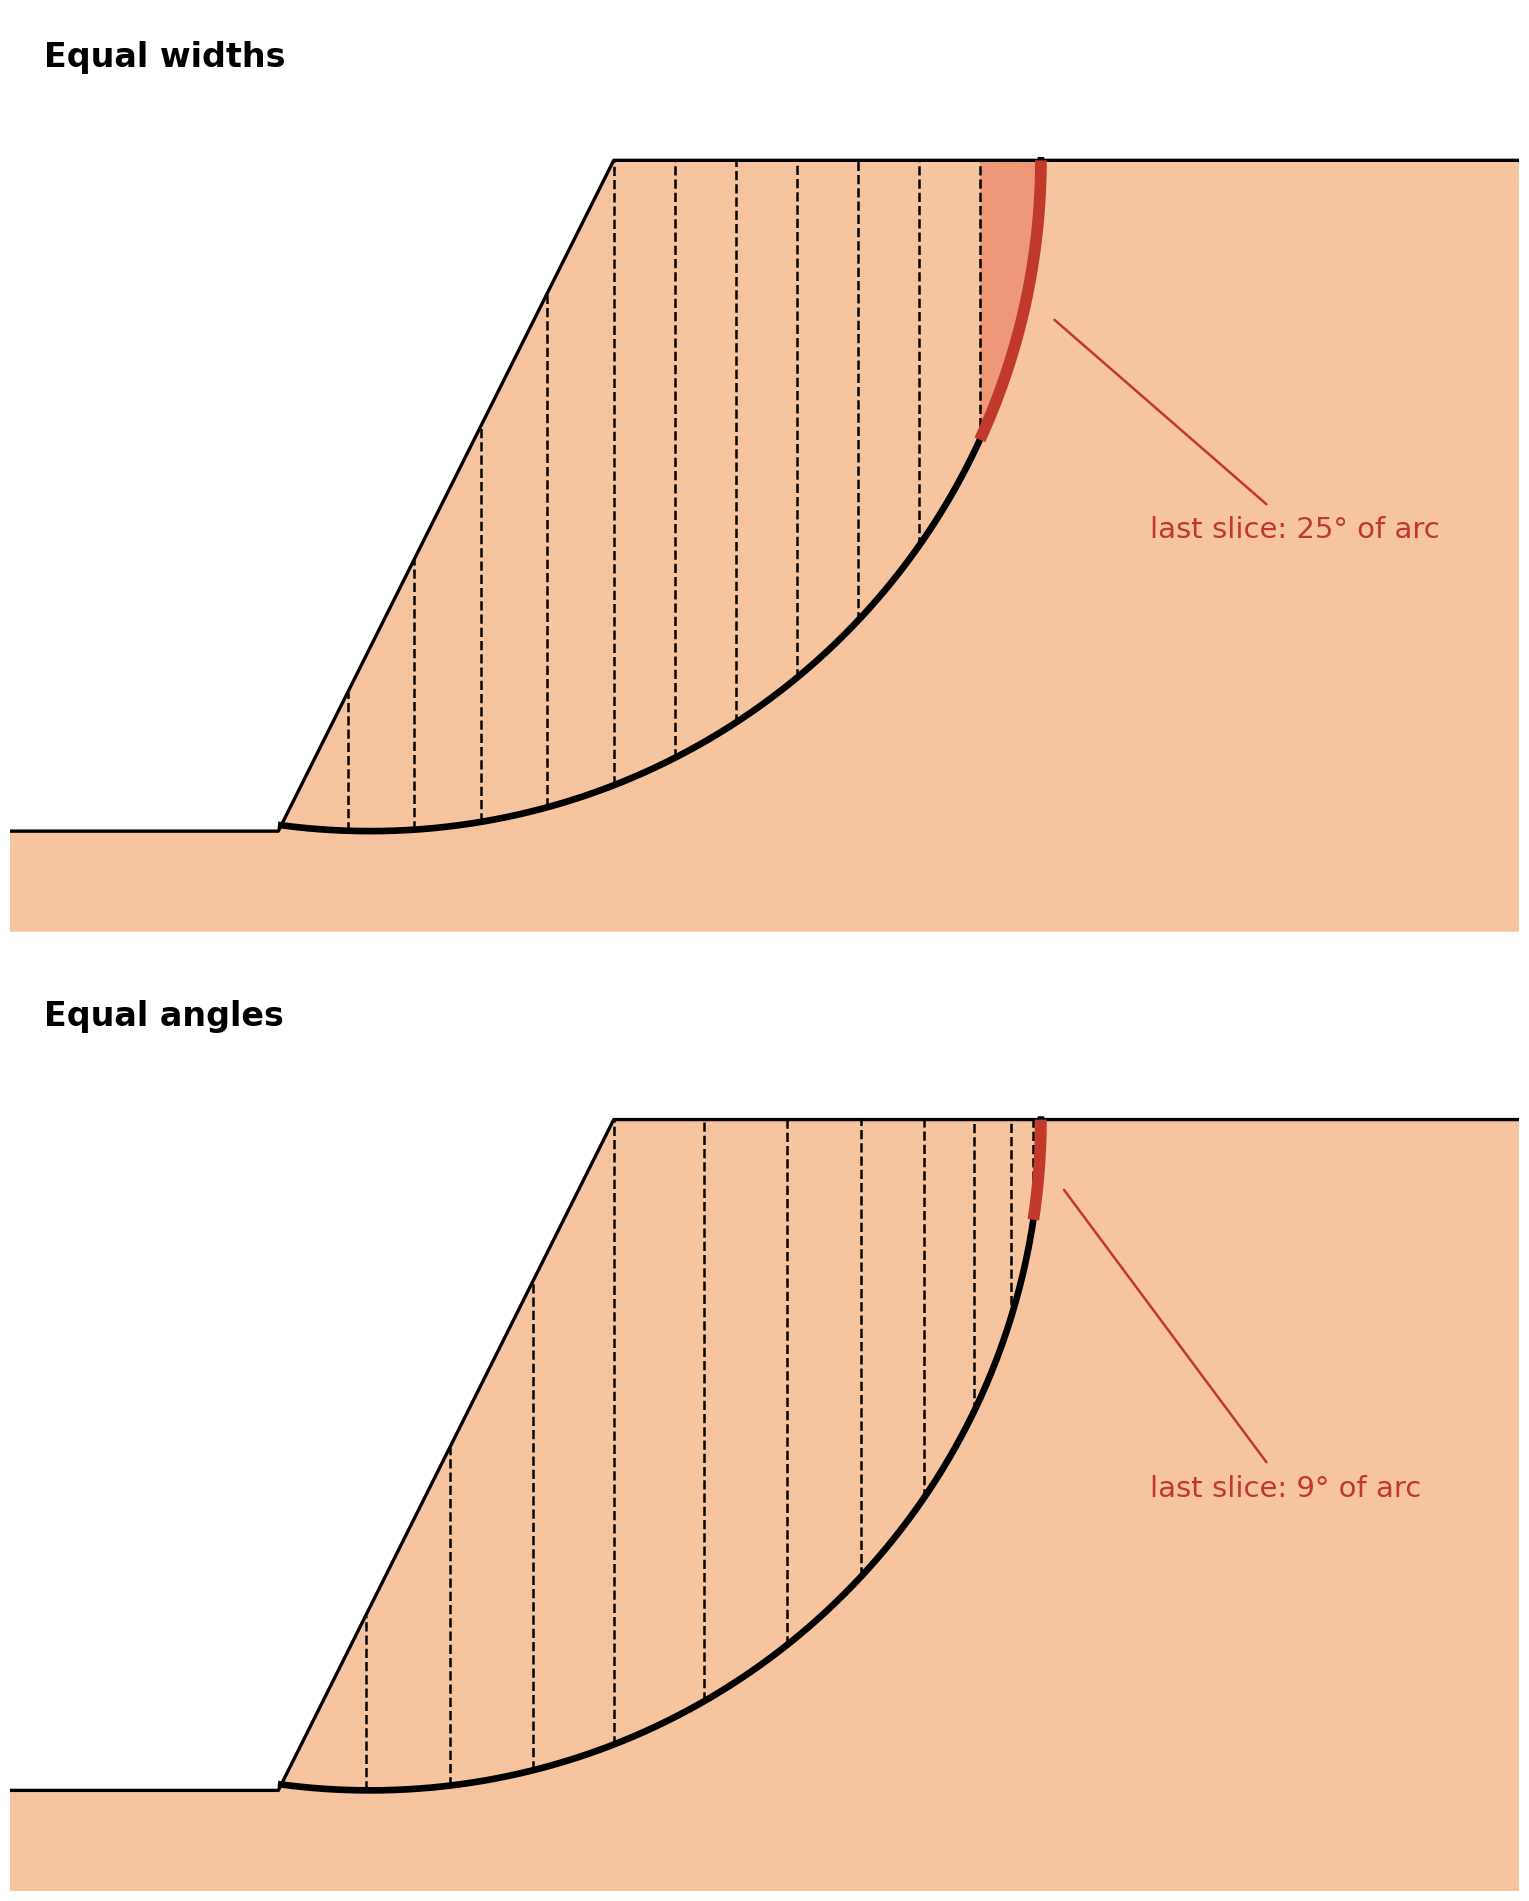
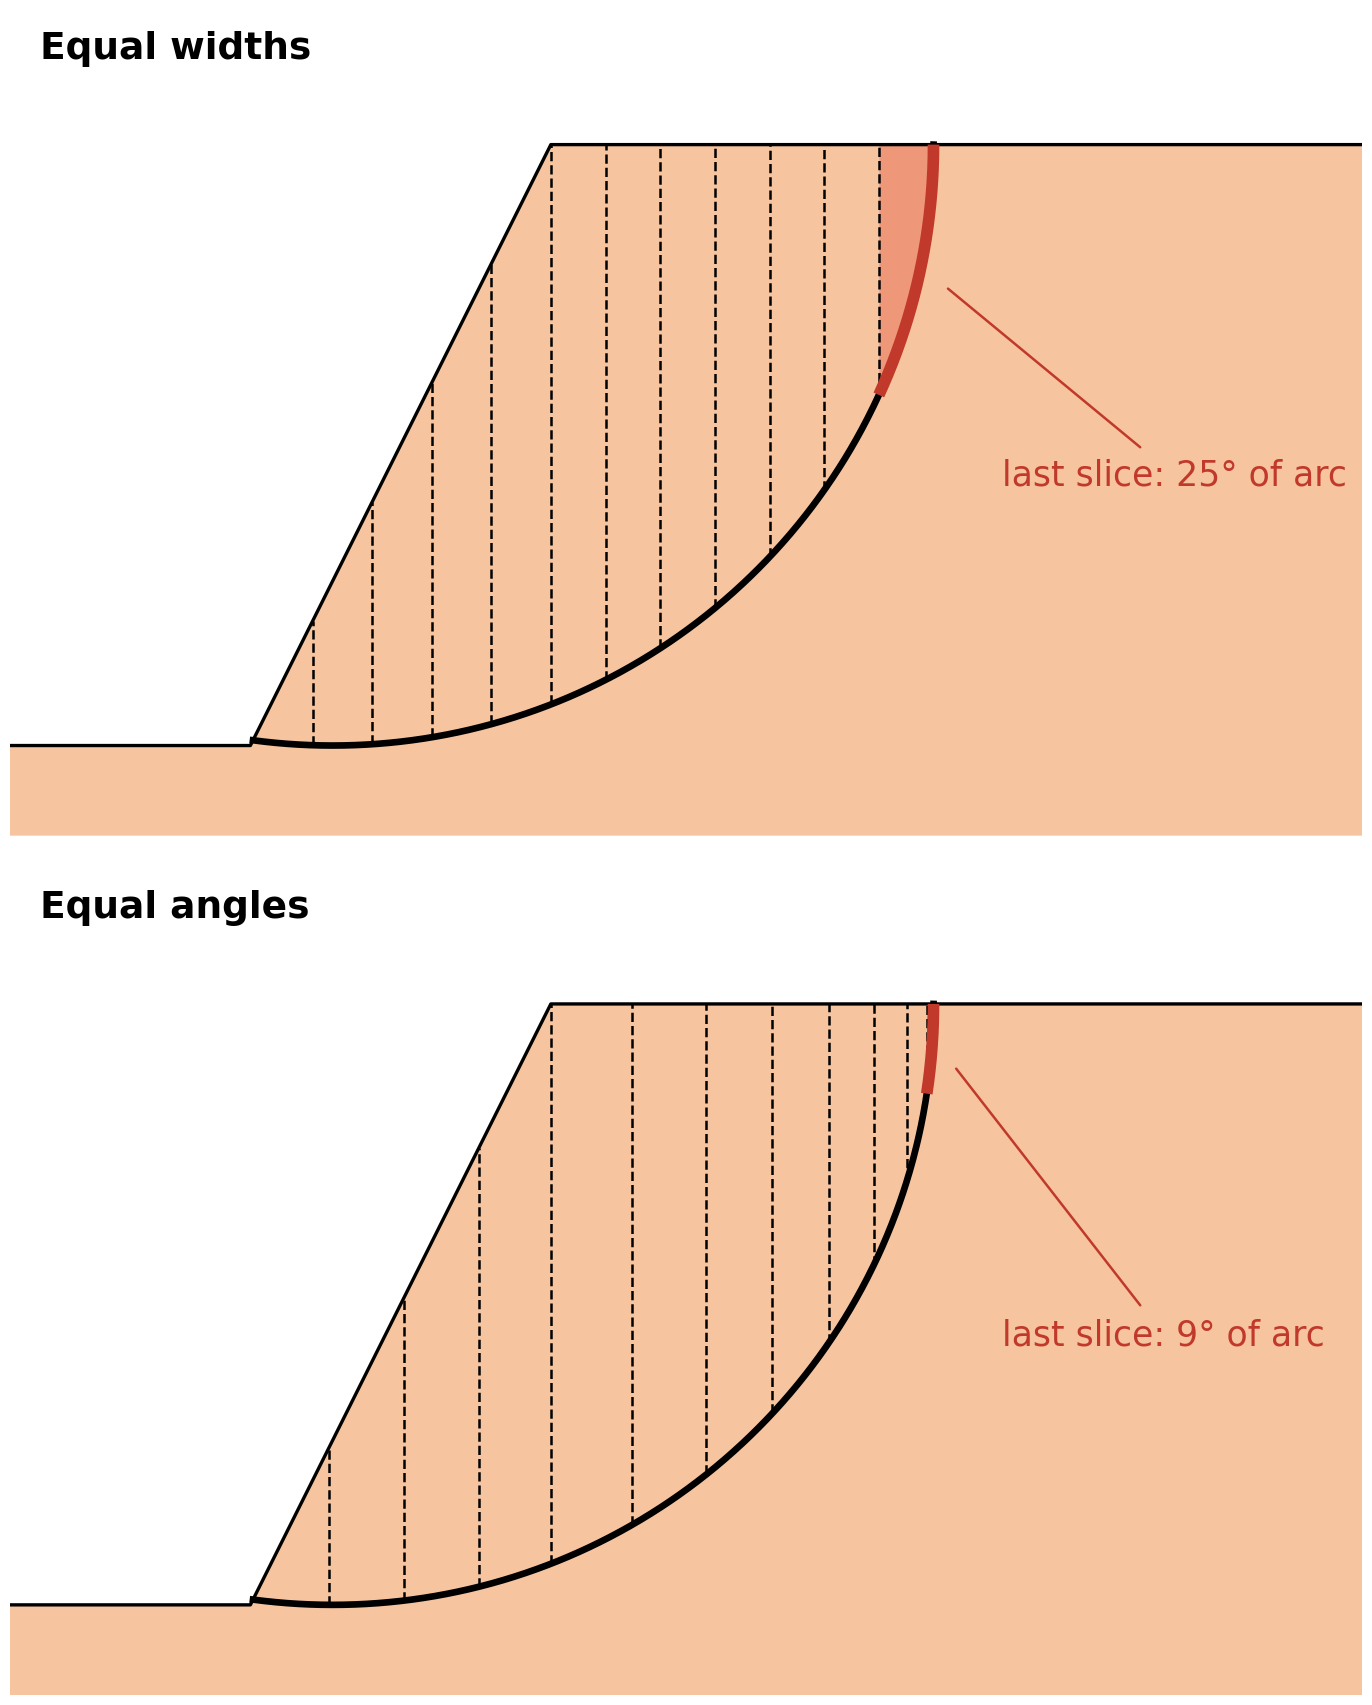
LEM overview figures: shown at a width where their text reads at page size
The composite-surface figure had no width and filled the page at 1418 px;
its labels were 8 pt. Redrawn at 12 pt text (ticks 11) with the legend
below the frame, the mesh hidden, and a two-line title, and shown at 825 px,
half its 200 dpi width, so the text renders at about the page's 16 px. Its
script also had a stale path to the VP22 workbook and a leader that touched
the circle. The two circle-slicing figures are redrawn to the same standard
(686 and 714 px); the slice figure's page size follows its contents.

Claude-Session: https://claude.ai/code/session_019MWct99sAN4cmZsDr6H3a8

diff --git a/docs/lem/images/circle_slicing.py b/docs/lem/images/circle_slicing.py
@@ -76,11 +76,11 @@ def draw_section(ax, bounds, title):
     tm = np.radians(0.5 * (theta(bounds[-2]) + theta(bounds[-1])))
     span = theta(bounds[-1]) - theta(bounds[-2])
     ax.annotate("last slice: %.0f° of arc" % span,
-                xy=(XO + R * np.sin(tm) + 0.3, YO - R * np.cos(tm)), xytext=(26.0, 9.0),
-                fontsize=10.5, ha="left", va="center", color="#c0392b",
+                xy=(XO + R * np.sin(tm) + 0.3, YO - R * np.cos(tm)), xytext=(25.0, 9.0),
+                fontsize=12.5, ha="left", va="center", color="#c0392b",
                 arrowprops=dict(arrowstyle="-", color="#c0392b", lw=0.9,
                                 shrinkA=3, shrinkB=9))
-    ax.text(-7.0, 22.6, title, fontsize=12, ha="left", va="bottom", weight="bold")
+    ax.text(-7.0, 22.6, title, fontsize=13.5, ha="left", va="bottom", weight="bold")
     ax.set_xlim(-8.0, 37.0)
     ax.set_ylim(-3.0, 24.5)
     ax.set_aspect("equal")
@@ -112,7 +112,7 @@ def figure_width_angle():
     for name, xs in (("widths", widths), ("angles", angles)):
         print("   %s: %d slices, arcs %s deg" % (name, len(xs) - 1,
               ", ".join("%.1f" % (theta(b) - theta(a)) for a, b in zip(xs[:-1], xs[1:]))))
-    fig, axes = plt.subplots(2, 1, figsize=(8.6, 9.6))
+    fig, axes = plt.subplots(2, 1, figsize=(7.4, 8.6))
     draw_section(axes[0], widths, "Equal widths")
     draw_section(axes[1], angles, "Equal angles")
     fig.subplots_adjust(left=0.01, right=0.99, top=0.99, bottom=0.01, hspace=0.04)
@@ -137,7 +137,10 @@ def figure_base():
     top = 2.6
     x_lo, x_hi, y_lo, y_hi = 4.2, 11.6, -8.9, 3.4
 
-    fig, ax = plt.subplots(figsize=(9.6, 6.9))
+    key_w = 8.6                     # data units the key takes beside the slice
+    units_per_inch = 1.75
+    fig, ax = plt.subplots(figsize=((x_hi + key_w - x_lo) / units_per_inch,
+                                    (y_hi - y_lo) / units_per_inch))
     ts = np.linspace(t1, t2, 200)
     arc = np.array([on(t) for t in ts])
     poly = [(A[0], top)] + [tuple(p) for p in arc] + [(B[0], top)]
@@ -158,7 +161,7 @@ def figure_base():
     for p in (A, B):
         toward_o(p, "0.75", 0.8)
     q = toward_o(M, "0.55", 0.9)
-    ax.text(q[0] + 0.15, q[1] + 0.35, "to the center O", fontsize=10, color="0.4",
+    ax.text(q[0] + 0.15, q[1] + 0.35, "to the center O", fontsize=11.5, color="0.4",
             ha="left", va="bottom", rotation=np.degrees(np.arctan2(-M[1], -M[0])) - 180,
             rotation_mode="anchor")
     # the base: arc and chord
@@ -168,18 +171,18 @@ def figure_base():
     ax.plot([C[0], C[0]], [P[1] - 0.6, top + 0.3], ls=":", color="0.2", lw=1.1)
     ax.add_patch(FancyArrowPatch((C[0], top - 0.35), (C[0], top - 2.4),
                                  arrowstyle="-|>", mutation_scale=14, color="black", lw=1.4))
-    ax.text(C[0] + 0.2, top - 1.35, "W", fontsize=12, ha="left", va="center")
+    ax.text(C[0] + 0.2, top - 1.35, "W", fontsize=13.5, ha="left", va="center")
     # the base normal at C, along the radius toward O
     d = -C / np.linalg.norm(C)
     tip = C + 1.7 * d
     ax.add_patch(FancyArrowPatch(tuple(C), tuple(tip), arrowstyle="-|>", shrinkA=5,
                                  mutation_scale=14, color="black", lw=1.4, zorder=6))
-    ax.text(tip[0] + 0.42, tip[1] - 0.42, "N", fontsize=12, ha="center", va="center")
+    ax.text(tip[0] + 0.42, tip[1] - 0.42, "N", fontsize=13.5, ha="center", va="center")
     # alpha, the chord's inclination, drawn at A
     ax.plot([A[0], A[0] + 2.0], [A[1], A[1]], color="0.3", lw=0.9)
     ax.add_patch(Arc(tuple(A), 2.8, 2.8, theta1=0, theta2=np.degrees(tm), color="0.3",
                      lw=0.9))
-    ax.text(A[0] + 1.62, A[1] + 0.55, "α", fontsize=13, ha="left", va="center")
+    ax.text(A[0] + 1.62, A[1] + 0.55, "α", fontsize=14, ha="left", va="center")
     # the tangent at P, flatter than the chord
     tan = np.array([np.cos(tp), np.sin(tp)])
     ax.plot([P[0] - 2.4 * tan[0], P[0] + 2.4 * tan[0]],
@@ -189,34 +192,34 @@ def figure_base():
     ax.plot(*C, "o", ms=8, mfc="white", mec="black", mew=1.8, zorder=7)
     ax.plot(*M, "o", ms=8, color=WATER, zorder=7)
     ax.plot(*P, "o", ms=7, mfc="white", mec="0.4", mew=1.5, zorder=7)
-    ax.text(C[0] - 0.42, C[1] - 0.38, "C", fontsize=12, ha="center", va="center",
+    ax.text(C[0] - 0.42, C[1] - 0.38, "C", fontsize=13.5, ha="center", va="center",
             zorder=8)
-    ax.text(M[0] + 0.48, M[1] + 0.05, "M", fontsize=12, ha="left", va="center",
+    ax.text(M[0] + 0.48, M[1] + 0.05, "M", fontsize=13.5, ha="left", va="center",
             color=WATER, zorder=8)
-    ax.text(P[0] + 0.48, P[1] - 0.22, "P", fontsize=12, ha="left", va="center",
+    ax.text(P[0] + 0.48, P[1] - 0.22, "P", fontsize=13.5, ha="left", va="center",
             color="0.35", zorder=8)
-    ax.text(A[0] - 0.42, A[1] - 0.2, "A", fontsize=12, ha="center", va="center")
-    ax.text(B[0] + 0.32, B[1] + 0.3, "B", fontsize=12, ha="left", va="center")
+    ax.text(A[0] - 0.42, A[1] - 0.2, "A", fontsize=13.5, ha="center", va="center")
+    ax.text(B[0] + 0.32, B[1] + 0.3, "B", fontsize=13.5, ha="left", va="center")
     tb = t1 + 0.8 * (t2 - t1)
-    ax.text(*(on(tb) * 1.07), "Δℓ", fontsize=13, ha="left", va="center")
+    ax.text(*(on(tb) * 1.07), "Δℓ", fontsize=14, ha="left", va="center")
 
     # the key, beside the slice
-    key = [("C", "the middle of the chord AB, on the slice's center line\n"
-                 "and on the radius through M: the base forces act here", "black"),
-           ("M", "the middle of the arc AB: the pore pressure is read here", WATER),
-           ("P", "the circle directly below the slice's center line;\n"
-                 "dashed, the circle's tangent there", "0.35"),
+    key = [("C", "the middle of the chord AB, on the\nslice's center line and on the\n"
+                 "radius through M: the base\nforces act here", "black"),
+           ("M", "the middle of the arc AB: the\npore pressure is read here", WATER),
+           ("P", "the circle directly below the\nslice's center line; dashed, the\n"
+                 "circle's tangent there", "0.35"),
            ("Δℓ", "the length of the arc AB", "black"),
-           ("α", "the inclination of the chord AB, which is\n"
-                 "parallel to the circle's tangent at M", "black")]
-    y = 1.6
+           ("α", "the inclination of the chord AB,\nparallel to the circle's tangent\nat M",
+            "black")]
+    y = 2.4
     for sym, text, color in key:
-        ax.text(x_hi + 0.5, y, sym, fontsize=12, ha="left", va="top", color=color,
+        ax.text(x_hi + 0.4, y, sym, fontsize=13, ha="left", va="top", color=color,
                 weight="bold")
-        ax.text(x_hi + 1.45, y, text, fontsize=10.5, ha="left", va="top", color=color,
-                linespacing=1.25)
-        y -= 0.62 + 0.37 * (1 + text.count("\n"))
-    ax.set_xlim(x_lo, x_hi + 9.6)
+        ax.text(x_hi + 1.5, y, text, fontsize=12, ha="left", va="top", color=color,
+                linespacing=1.2)
+        y -= 0.62 + 0.42 * (1 + text.count("\n"))
+    ax.set_xlim(x_lo, x_hi + key_w)
     ax.set_ylim(y_lo, y_hi)
     ax.set_aspect("equal")
     ax.axis("off")

diff --git a/docs/lem/images/composite_surface.py b/docs/lem/images/composite_surface.py
@@ -22,7 +22,7 @@ from xslope.slice import build_composite_surface, generate_slices
 warnings.filterwarnings("ignore")
 
 HERE = os.path.dirname(os.path.abspath(__file__))
-XLSX = os.path.join(HERE, "..", "..", "files", "rocscience", "vp022a.xlsx")
+XLSX = os.path.join(HERE, "..", "..", "verification", "files", "rocscience", "vp022a.xlsx")
 OUT = os.path.join(HERE, "composite_surface.png")
 
 
@@ -33,8 +33,11 @@ def main():
     if not ok:
         raise RuntimeError(fs)
 
-    fig = plt.figure(figsize=(9.5, 4.6))
-    plot_inputs(sd, fig=fig, show_title=False)
+    # Drawn to be shown at 100 px per figure inch (half its 200 dpi pixel width),
+    # where 12 pt text renders at about the page's own text size.
+    plt.rcParams.update({"font.size": 12, "xtick.labelsize": 11, "ytick.labelsize": 11})
+    fig = plt.figure(figsize=(8.4, 4.8))
+    plot_inputs(sd, fig=fig, show_title=False, show_mesh=False)
     ax = fig.axes[0]
 
     # Drop plot_inputs' radius arrow and center marker — the center (120, 90) sits
@@ -57,15 +60,18 @@ def main():
                 label="arc meets the base" if i == 0 else None)
 
     ax.annotate("the trial circle passes\nbelow the model base",
-                xy=(120, 10.2), xytext=(96, -6), fontsize=8.5, color="0.3",
-                ha="center", arrowprops=dict(arrowstyle="->", color="0.5", lw=1.0))
+                xy=(120, 10.2), xytext=(96, -7), fontsize=12, color="0.3",
+                ha="center", arrowprops=dict(arrowstyle="->", color="0.5", lw=1.0,
+                                             shrinkA=3, shrinkB=6))
     ax.set_xlim(-5, 190)
-    ax.set_ylim(-14, 72)
-    ax.legend(loc="upper right", fontsize=8, framealpha=0.9, ncol=2)
-    ax.set_title("A circle deeper than the model base is truncated: it follows the arc "
-                 "down, runs\nalong the base between the two crossings, and climbs back "
-                 "out on the arc", fontsize=10)
-    fig.savefig(OUT, dpi=150, bbox_inches="tight")
+    ax.set_ylim(-12, 66)
+    ax.tick_params(labelsize=11)
+    ax.legend(loc="upper center", bbox_to_anchor=(0.5, -0.1), fontsize=11.5,
+              frameon=False, ncol=3)
+    ax.set_title("A circle deeper than the model base is truncated: it follows the arc down,\n"
+                 "runs along the base between the two crossings, and climbs back out on the arc",
+                 fontsize=12)
+    fig.savefig(OUT, dpi=200, bbox_inches="tight")
     print("wrote", OUT)
 
 

diff --git a/docs/lem/overview.md b/docs/lem/overview.md
@@ -299,13 +299,13 @@ One exception to this is Spencer's method. Details can be found in the XSLOPE so
 
 A circular surface is cut into slices of equal angle, so each slice base spans the same arc of the circle and the slices narrow where the circle steepens toward the ground. With slices of equal width, the last slice at a steep exit spans a wide arc, and no single base length and inclination represent a base that turns that far: the cohesion and the pore-pressure force on that slice both come out wrong, by enough to move the factor of safety by several percent.
 
-![The same circle cut into twelve slices of equal width and of equal angle](images/circle_slices_width_angle.png){width="640px"}
+![The same circle cut into twelve slices of equal width and of equal angle](images/circle_slices_width_angle.png){width="686px"}
 
 *A circle meeting the crest of a 20 ft slope vertically, cut into 12 slices, with a boundary at the crest, which is a ground vertex. Equal widths leave the last slice spanning 25° of arc; equal angles cut the stretch beyond the crest into slices of 9°. At 40 slices, the last slice of equal width still spans 14°.*
 
 A base on the circle takes the arc between its corners A and B as its length $\Delta \ell$ and the chord AB for its inclination $\alpha$; the chord is parallel to the circle's tangent at M, the middle of the arc. The base forces act at C, the middle of the chord, and the pore pressure is read at M; under r<sub>u</sub>, the vertical stress is that of the soil column above M.
 
-![One steep slice: the arc AB, the chord AB, the points C, M and P](images/circle_slice_base.png){width="700px"}
+![One steep slice: the arc AB, the chord AB, the points C, M and P](images/circle_slice_base.png){width="714px"}
 
 *One steep slice drawn large. The weight W and the base forces act on the slice's center line, through C; the normal force N points at the circle's center O.*
 
@@ -333,7 +333,7 @@ XSLOPE handles this the way every limit equilibrium code does, by **truncating**
 
 The result is called a **composite surface**. It is the correct failure mechanism whenever a slope is underlain by a weak seam or a hard stratum: the mass shears along the arc where it can, and along the weak base where that is cheaper. The example below is the [Fredlund & Krahn (1977)](https://doi.org/10.1139/t77-045) benchmark, where a 1-ft weak seam sits on the model base and half the slices have their bases on the seam.
 
-![composite_surface.png](images/composite_surface.png)
+![composite_surface.png](images/composite_surface.png){width="825px"}
 
 XSLOPE handles the kink where arc meets floor in two ways:
 
